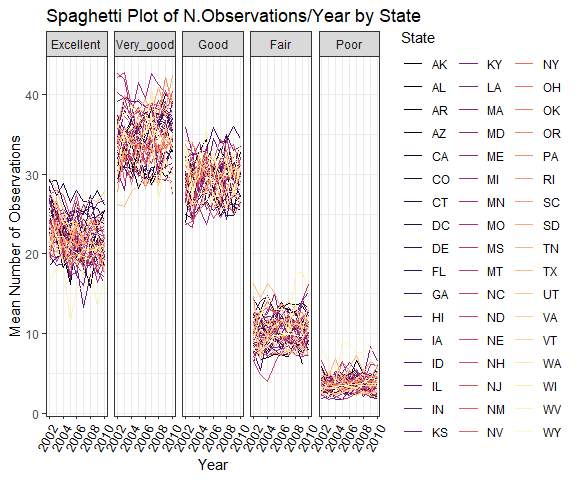
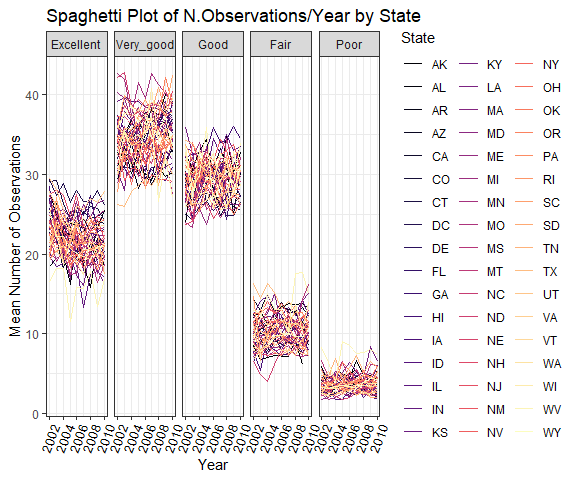
Finished inital coding for problem 2. Need to fix spacing of ticks/labels on barplot.

diff --git a/p8105_hw3_qn2119.md b/p8105_hw3_qn2119.md
@@ -110,7 +110,7 @@ response.st.yr <- prop.response.df %>%
   ) +
   theme(legend.position = "right",
         axis.text.x = element_text(color = "black", 
-        size = 10, angle = 420.69, hjust = 1) )
+        size = 10, angle = 430, vjust = .5) )
 
   
   
@@ -133,7 +133,165 @@ The goal is to do some exploration of this dataset. To that end, write a short d
 
 How many aisles are there, and which aisles are the most items ordered from? Make a plot that shows the number of items ordered in each aisle. Order aisles sensibly, and organize your plot so others can read it. Make a table showing the most popular item aisles “baking ingredients”, “dog food care”, and “packaged vegetables fruits” Make a table showing the mean hour of the day at which Pink Lady Apples and Coffee Ice Cream are ordered on each day of the week; format this table for human readers (i.e. produce a 2 x 7 table).
 
-#### Data Overview and Cleaning
+``` r
+#Load data from p8105 datasets
+data("instacart")
+#Pull the dimmensions
+dim.insta.cart <- dim(instacart)
+
+
+insta.cart.df <- instacart %>%
+  janitor::clean_names() 
+
+#Summary of Customer Visits
+sum.df <- insta.cart.df %>%
+  janitor::clean_names() %>%
+  group_by(order_id, user_id) %>%
+  summarize(
+    n_items = max(add_to_cart_order),
+    n_unique_aisles = aisle_id %>% unique() %>% length(),
+    n_unique_dept = department %>% unique() %>% length(),
+    order_num = unique(order_number)
+    ) %>% gather(key = Customer_Stats, value = count, n_items:order_num) %>%
+  group_by(Customer_Stats) %>%
+  summarize(
+    median = median(count, na.rm = T),
+    mean = mean(count, na.rm = T),
+    variance = sd(count, na.rm = T)^2,
+    max = max(count),
+    min = min(count)
+    )
+#Summary of Customer Visits on the 100th visit
+max.order.case <- insta.cart.df %>%
+  filter(order_number == 100) %>%
+  group_by(order_id, user_id) %>%
+  summarize(
+    n_items = max(add_to_cart_order),
+    n_unique_aisles = aisle_id %>% unique() %>% length(),
+    n_unique_dept = department %>% unique() %>% length(),
+    order_num = unique(order_number)
+    ) %>% gather(key = Customer_Stats, value = count, n_items:order_num) %>%
+  group_by(Customer_Stats) %>%
+  summarize(
+    median = median(count, na.rm = T),
+    mean = mean(count, na.rm = T),
+    variance = sd(count, na.rm = T)^2,
+    max = max(count),
+    min = min(count)
+    )
+#Number of Unique products bought   
+unique.products <- insta.cart.df %>% distinct(., product_id) 
+
+
+#Top 5 Aisles
+n.unique.aisles <- insta.cart.df %>% distinct(., aisle) %>% nrow()
+top.5.aisles.df <- insta.cart.df %>%
+  count(aisle) %>% arrange(desc(n)) %>% slice(1:5) %>%
+  select(aisle)
+```
+
+``` r
+#Histogram of Order in each aisle
+
+hist.aisle.orders <- insta.cart.df %>%
+  count(aisle) %>% arrange(desc(n)) %>%
+  mutate(aisle = as.factor(aisle)) %>%
+  mutate(aisle = forcats::fct_reorder(aisle, n)) %>%
+  ggplot(aes(x = aisle, y = n)) +
+  geom_bar(stat = "identity") +
+  coord_flip() +
+  theme(legend.position = "right",
+        axis.text.y = element_text(color = "black", 
+        size = 6,  hjust = 1) ) 
+ 
+hist.aisle.orders
+```
+
+<img src="p8105_hw3_qn2119_files/figure-markdown_github/unnamed-chunk-5-1.png" width="90%" />
+
+``` r
+#paste0(top.5.aisles$aisle, collapse = ", ")
+
+#Most popular item in “baking ingredients”, “dog food care”, and “packaged vegetables fruits”
+pop.item.aisle.df <- insta.cart.df %>%
+  filter(aisle == "baking ingredients" | 
+         aisle == "dog food care" | 
+         aisle == "packaged vegetables fruits") %>%
+  count(product_name, aisle) %>%
+  group_by(aisle) %>%
+  summarize(
+    'Most Popular Product' = product_name[which.max(n)],
+    'Number Bought' = max(n)
+  ) %>%
+  rename(Aisle = aisle)
+pop.item.aisle.df %>%
+  knitr::kable()
+```
+
+| Aisle                      | Most Popular Product                          |  Number Bought|
+|:---------------------------|:----------------------------------------------|--------------:|
+| baking ingredients         | Light Brown Sugar                             |            499|
+| dog food care              | Snack Sticks Chicken & Rice Recipe Dog Treats |             30|
+| packaged vegetables fruits | Organic Baby Spinach                          |           9784|
+
+``` r
+#Mean hour Pink Lady Apples and Coffee Ice Cream are ordered on each day of the week; format this table for human readers
+#User function to change mean time (decimal, 24 hour) to 12 hour time (hour:min a.m./p.m.)
+#Inputs numeric vector, outputs character vector of same length
+dec.to.min <- function(x){
+  for (i in 1:length(x)) {  #loop through each vector element
+      y <- as.character(x[i])    #cast as character
+      y1 <- sapply(strsplit(y, "[.]"), `[`, 1) %>% as.numeric()  #split on decimal,pull hour, cast as numeric
+      y2 <- substring(x[i],3) %>% as.numeric()*60 #pull decimal, convert to minutes
+    if (y2 < 10) {
+        y2 <- paste0(0,round(y2))  #if less than 10, add "0_" and round to integer
+    } else {
+        y2 <- round(y2) #round to integer
+      }
+    if (y1 >= 13) {
+      y1 <- y1 - 12   #convert to 24 hour if p.m.
+      x[i] <- paste(y1, y2, sep = ":") %>%  #replace ith entry with "__:__ p.m." if hour > 13
+          paste(., "p.m.")
+    } else if (y1 == 12) {
+      x[i] <- paste(y1, y2, sep = ":") %>% # #replace ith entry with "__:__ p.m." if hour = 12
+          paste(., "p.m.")
+    } else {
+      x[i] <- paste(y1, y2, sep = ":") %>% #replace ith entry with "__:__ a.m." if hour < 12.
+          paste(., "a.m.")
+    }
+  }
+  return(x)
+}
+
+
+  insta.cart.df %>%
+  filter(product_name == "Pink Lady Apples" |
+         product_name == "Coffee Ice Cream") %>%
+  group_by(order_dow) %>%
+  summarize(
+    mean_hour = mean(order_hour_of_day)
+  ) %>%
+  mutate(
+    mean_hour = dec.to.min(mean_hour),
+    order_dow = c("Sunday", "Monday", "Tuesday", "Wednesday",
+                  "Thursday", "Friday", "Saturday")
+  ) %>%
+  rename('Order Day of the Week' = order_dow,
+         'Mean Time of Order' = mean_hour) %>%
+  knitr::kable()
+```
+
+| Order Day of the Week | Mean Time of Order |
+|:----------------------|:-------------------|
+| Sunday                | 1:36 p.m.          |
+| Monday                | 12:10 p.m.         |
+| Tuesday               | 12:50 p.m.         |
+| Wednesday             | 2:41 p.m.          |
+| Thursday              | 1:10 p.m.          |
+| Friday                | 12:39 p.m.         |
+| Saturday              | 1:15 p.m.          |
+
+#### Data Overview
 
 #### Solutions
 
@@ -146,44 +304,16 @@ The goal is to do some exploration of this dataset. To that end, write a short d
 
 Do some data cleaning. Create separate variables for year, month, and day. Ensure observations for temperature, precipitation, and snowfall are given in reasonable units. For snowfall, what are the most commonly observed values? Why? Make a two-panel plot showing the average temperature in January and in July in each station across years. Is there any observable / interpretable structure? Any outliers? Make a two-panel plot showing (i) tmax vs tmin for the full dataset (note that a scatterplot may not be the best option); and (ii) make a plot showing the distribution of snowfall values greater than 0 and less than 100 separately by year.
 
+``` r
+data("ny_noaa")
+
+ny.noaa.df <- ny_noaa %>%
+  janitor::clean_names()
+```
+
 #### Data Overview and Cleaning
 
 #### Solutions
-
-``` r
-#Histogram of Excellent Responses in 2002
-hist.excel.02 <- brfss.df %>%
-                 filter(year == 2002) %>%
-                 ggplot() +
-                 geom_histogram(aes(x = excellent),
-                                color = "black", fill = "lightblue") +
-                 geom_vline(xintercept = med.excel.2002, size = 2, colour = "red", linetype = "dashed") +
-                 labs(
-                   x = "Percentage Excellent Response (%)",
-                   y = "Count",
-                   title = "Histogram of % Excellent Response, 2002"
-                 )
-hist.excel.02
-
-#Scatter of Prop. Excellent in NY County and Queens County, from 2002 to 2010
-scatter.excel.02.10 <- brfss.df %>%
-                       filter(county == "NEW YORK COUNTY" |
-                              county == "QUEENS COUNTY") %>%
-                       ggplot(aes(x = year, y = excellent, color = county)) +
-                       geom_point(alpha = 0.9, size = 2) +
-                       geom_line(alpha = 0.5, size = 0.5) +
-                       labs(
-                         x = "Year",
-                         y = "Excellent Responses (%)",
-                         title = "Scatter Plot of % Excellent Responses"
-                       ) +
-                       scale_color_manual(
-                         name = "County",
-                         values = c("Lightblue", "Purple"),
-                         labels = expression("New York County", "Queens County")
-                         )
-scatter.excel.02.10
-```
 
 Appendix
 ========
